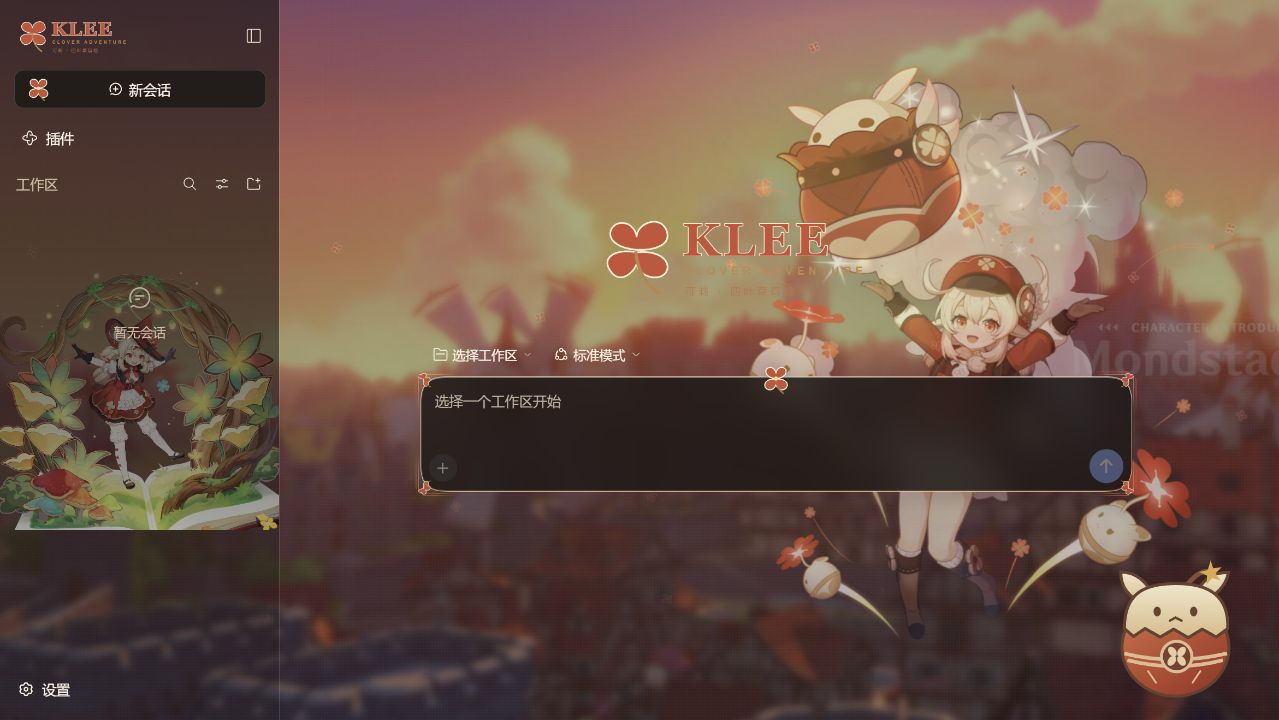
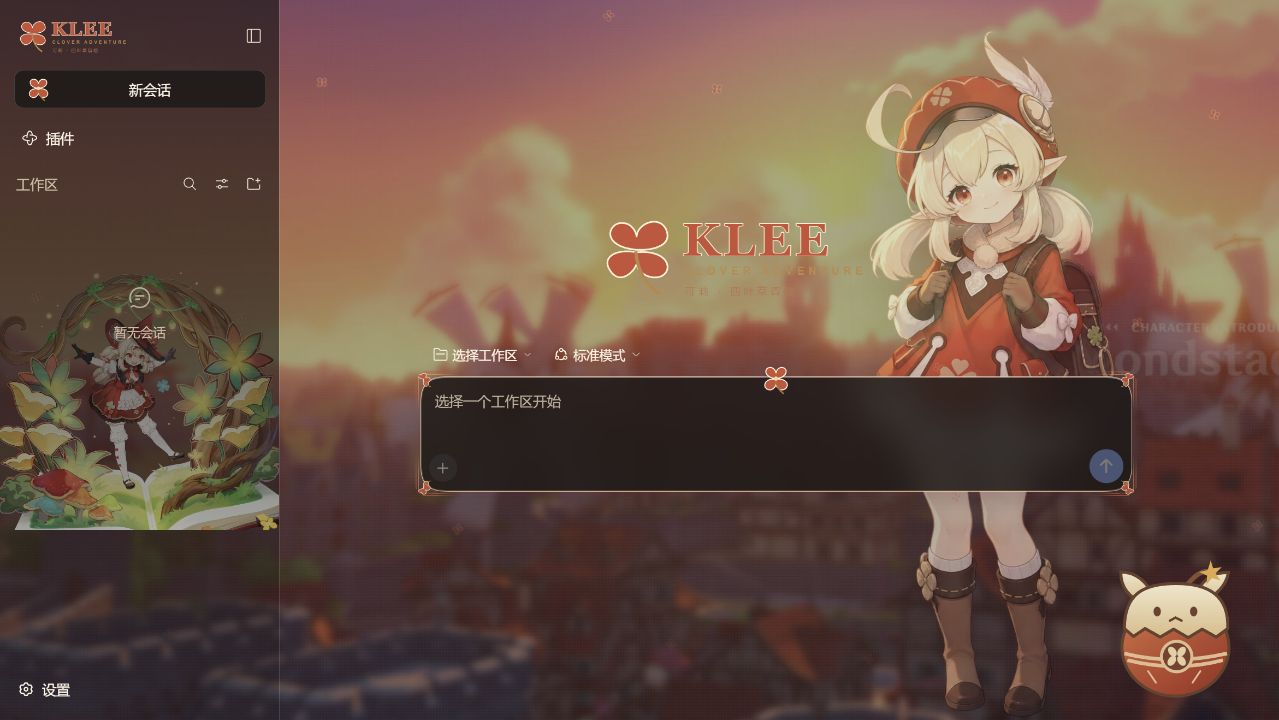
Use calm single-character Klee standing artwork in v1.0.1

Changed region(s): [[0.5794, 0.0611, 0.9148, 0.55], [0.6099, 0.6111, 0.9453, 0.9778], [0.9148, 0.55, 0.9453, 0.5806]]

diff --git a/client.js b/client.js
@@ -291,7 +291,7 @@ body[${SCOPE}] .klee-wallpaper-character {
   left: var(--klee-character-position);
   bottom: 0;
   z-index: -2;
-  width: calc(var(--klee-character-size) * 2);
+  width: calc(var(--klee-character-size) * .72);
   height: var(--klee-character-size);
   opacity: var(--klee-character-opacity);
   background-image: url("${asset.character}");
@@ -312,7 +312,7 @@ body[${SCOPE}] .klee-wallpaper-mascot {
   body[${SCOPE}] .klee-wallpaper-character {
     left: min(var(--klee-character-position), 58%);
     max-height: 65vh;
-    max-width: 130vh;
+    max-width: 46.8vh;
   }
   body[${SCOPE}] .klee-wallpaper-mascot { right: 6px; max-width: 28vw; max-height: 28vw; }
 }

diff --git a/theme-route.js b/theme-route.js
@@ -31,7 +31,7 @@ const FILES = Object.freeze({
   backgroundLight: 'mondstadt.jpg',
   backgroundDark: 'mondstadt.jpg',
   overlay: 'klee-blossoming-starlight.png',
-  character: 'klee-splash.png',
+  character: 'klee-standing.png',
   mascot: 'jumpy-dumpty.svg',
   icon: 'klee-icon.svg',
   favicon: 'klee-icon.svg',

diff --git a/ASSET_NOTICE.md b/ASSET_NOTICE.md
@@ -7,7 +7,7 @@
 | 文件 | 内容 / 原始资源名 | 来源 |
 | --- | --- | --- |
 | `assets/mondstadt.jpg` | 蒙德城夕照，米哈游角色介绍页背景，1920 × 1080；原图具有柔焦与 Mondstadt 字样 | [官方 CDN 原图](https://uploadstatic-sea.mihoyo.com/contentweb/20200211/2020021114281985438.jpg) |
-| `assets/klee-splash.png` | 经典可莉祈愿图 `UI_Gacha_AvatarImg_Klee` | [Enka 游戏资源镜像](https://enka.network/ui/UI_Gacha_AvatarImg_Klee.png) |
+| `assets/klee-standing.png` | 单人自然站姿可莉，AI 生成的非官方同人立绘，以经典红衣造型为参考 | 内置 image_gen，2026-10-02；[完整提示词](docs/klee-standing-prompt.md) |
 | `assets/klee-blossoming-starlight.png` | 琪花星烛服装图 `UI_Costume_KleeCostumeWitch` | [Enka 游戏资源镜像](https://enka.network/ui/UI_Costume_KleeCostumeWitch.png) |
 | `assets/klee-icon.svg`, `assets/clover-frame.svg`, `assets/klee-clover-wordmark.svg` | 为主题编写的四叶草 UI 图形和字标 | 本项目源码绘制 |
 | `assets/jumpy-dumpty.svg` | 蹦蹦炸弹主题的简化矢量同人装饰 | 本项目源码绘制；原作角色设计权利仍属于原权利人 |
@@ -15,7 +15,7 @@
 
 素材检索日期：2026-10-02。立绘标识交叉核对：[genshin-db 角色图片索引](https://github.com/theBowja/genshin-db/blob/main/src/data/image/characters.json)、[服装图片索引](https://github.com/theBowja/genshin-db/blob/main/src/data/image/outfits.json)。Enka 为托管镜像，并非图像版权人。
 
-PNG 与 JPG 保留下载原件；客户端通过 CSS 定位、缩放、透明度和玻璃效果排版。`assets/sources.json` 记录 URL 和 SHA-256，便于核对。
+背景和侧栏 PNG 与 JPG 保留下载原件。右侧站姿图为生成的透明 PNG，保留生成输出的 alpha；客户端通过 CSS 定位、缩放、透明度和玻璃效果排版。`assets/sources.json` 记录来源和 SHA-256，便于核对。右侧站姿图不是官方立绘，原作角色设计权利仍归原权利人。
 
 ## 权利边界
 
@@ -27,4 +27,6 @@ DeepSeek Harness 名称归其相应权利人所有。本主题不是官方产品
 
 ## 草稿说明
 
-设计初期试过 AI 生成的田园背景和可莉立绘；结合后续反馈，正式发行改为上述可核对来源的原作场景与立绘。**生成草稿未纳入发行包。**
+1.0.0 使用经典可莉祈愿动作图；1.0.1 根据“单人主体、不要动作立绘”的反馈改为上述站姿同人图。旧祈愿动作图可在 1.0.0 标签中查看。
+
+早期田园背景与其他生成草稿未纳入发行包；1.0.1 只纳入选定的 `klee-standing.png`。背景继续使用原作蒙德城场景，侧栏继续使用原作琪花星烛图。

diff --git a/docs/klee-standing-prompt.md b/docs/klee-standing-prompt.md
@@ -1,0 +1,18 @@
+# 可莉站姿立绘生成记录
+
+日期：2026-10-02。工具：内置 image_gen；透明背景开启。
+
+输出：`assets/klee-standing.png`，965 × 1630 PNG，保留透明 alpha。
+
+参考图：[官方 CDN 经典红衣可莉人物图](https://webstatic.hoyoverse.com/upload/uploadstatic/contentweb/20200103/2020010311014850622.png)，仅用于服装、人物比例与画风参考，不沿用动作姿态。生成输出为非官方同人图，角色设计权利归原权利人。
+
+## 最终提示词
+
+```text
+Use case: stylized-concept
+Asset type: transparent full-body character illustration for a Genshin Impact Klee desktop theme.
+Input image 1 is ONLY a reference for Klee's identity, classic costume, proportions and painted anime style; do NOT copy its jumping action pose.
+Primary request: create a SINGLE Klee in a quiet, natural standing pose. Both boots resting at the same level, body upright, relaxed shoulders, hands gently holding the straps of her own backpack at chest level, warm small smile, looking slightly toward the viewer. Show whole person from hat feather to boot soles, centered on a portrait canvas with modest transparent padding. Klee is the canonical petite child character: blonde twin tails, elf ears, red eyes, red beret with clover emblem and feather, red clover coat, white collar and trim, brown gloves, backpack and boots. Faithful nonsexual original costume and proportions.
+Style: polished clean anime illustration, fine painted linework and soft cel shading close to the reference; NOT a 3D model or super-deformed chibi. Lighting: restrained warm golden sunlight from upper left, soft peach ambient shadows, suitable for Mondstadt sunset backdrop. No environment: genuinely transparent alpha background.
+Constraints: ONLY the single standing character and her worn backpack. No airborne pose, no running, no stretched-out arms, no floating bombs, no explosions, no floating books, no magic effects, no additional creatures, no scenery, no ground plate, no text, no logo, no watermark, no checkerboard painted into background. Keep silhouette compact and full boots visible.
+```

diff --git a/README.md b/README.md
@@ -17,7 +17,7 @@
 ## 这一版有什么
 
 - **真实原神场景**：背景使用米哈游官网托管的蒙德城夕照图，保留原图的柔焦效果；深色模式以暖棕底色压暗同一场景，不冒称游戏夜景。
-- **两套不同造型**：主壁纸为经典红衣可莉祈愿立绘，侧栏为「琪花星烛」服装立绘与童话书。两者独立缩放。
+- **两套不同造型**：主壁纸为经典红衣可莉的单人自然站姿同人立绘，使用 AI 生成、配以暖色夕照；侧栏为原作「琪花星烛」服装立绘与童话书。两者独立缩放。主壁纸人物没有跳跃、爆炸或悬浮道具。
 - **独立设置页**：设置 → **可莉 · 四叶草冒险**，与通用设置、模型并列。
 - **玻璃调节**：面板不透明度、背景模糊、毛玻璃模糊、饱和度、液态玻璃高光。
 - **角色调节**：侧栏遮罩、立绘大小与离底高度；中央可莉强度、大小与水平位置；右侧蹦蹦炸弹大小和强度。
@@ -43,7 +43,7 @@
 
 ## Windows：ZIP 安装
 
-1. 从 [Release](https://github.com/QLruil419/dsh-klee-clover-theme/releases/latest) 下载 `dsh-klee-clover-theme-v1.0.0.zip`。
+1. 从 [Release](https://github.com/QLruil419/dsh-klee-clover-theme/releases/latest) 下载 `dsh-klee-clover-theme-v1.0.1.zip`。
 2. 解压到长期保留的目录，例如 `D:\Plugins`。ZIP 内有顶层文件夹 `dsh-klee-clover-theme`。
 3. 在 PowerShell 中执行以下命令。
 

diff --git a/README.en.md b/README.en.md
@@ -9,7 +9,7 @@ A Genshin Impact fan theme for DeepSeek Harness, with a Mondstadt sunset, two di
 ## Features
 
 - An actual Mondstadt sunset image hosted on miHoYo's official CDN. The original is intentionally soft-focused. Dark mode dims the same scene; it is not a separate night screenshot.
-- Classic Klee wish artwork on the wallpaper; Blossoming Starlight costume artwork in the sidebar.
+- A single classic-outfit Klee standing calmly on the wallpaper, with no jumping or floating props. This is AI-generated unofficial fan art with warm sunset lighting; the sidebar retains the original Blossoming Starlight costume artwork.
 - A dedicated **可莉 · 四叶草冒险** settings tab alongside General and Models.
 - Wallpaper, sidebar, and panel opacity; blur and saturation; optional CSS liquid-glass highlights.
 - Independent character size, opacity, horizontal position, and sidebar bottom clearance. Adjustable Jumpy Dumpty corner mascot.

diff --git a/CHANGELOG.md b/CHANGELOG.md
@@ -1,5 +1,11 @@
 # 更新日志
 
+## 1.0.1 — 2026-10-02
+
+- 右侧壁纸改用单人自然站姿可莉：双脚落地、双手轻扶背包肩带，无跳跃、爆炸或悬浮道具。
+- 新立绘为以经典服装为参考生成的非官方同人图，暖色光照适配蒙德城夕阳；侧栏保留琪花星烛造型。
+- 角色图层改用竖幅比例，更新明暗预览与素材说明；已有大小、位置和透明度设置继续保留。
+
 ## 1.0.0 — 2026-10-02
 
 - 首个 Klee Clover Adventure 独立主题。
